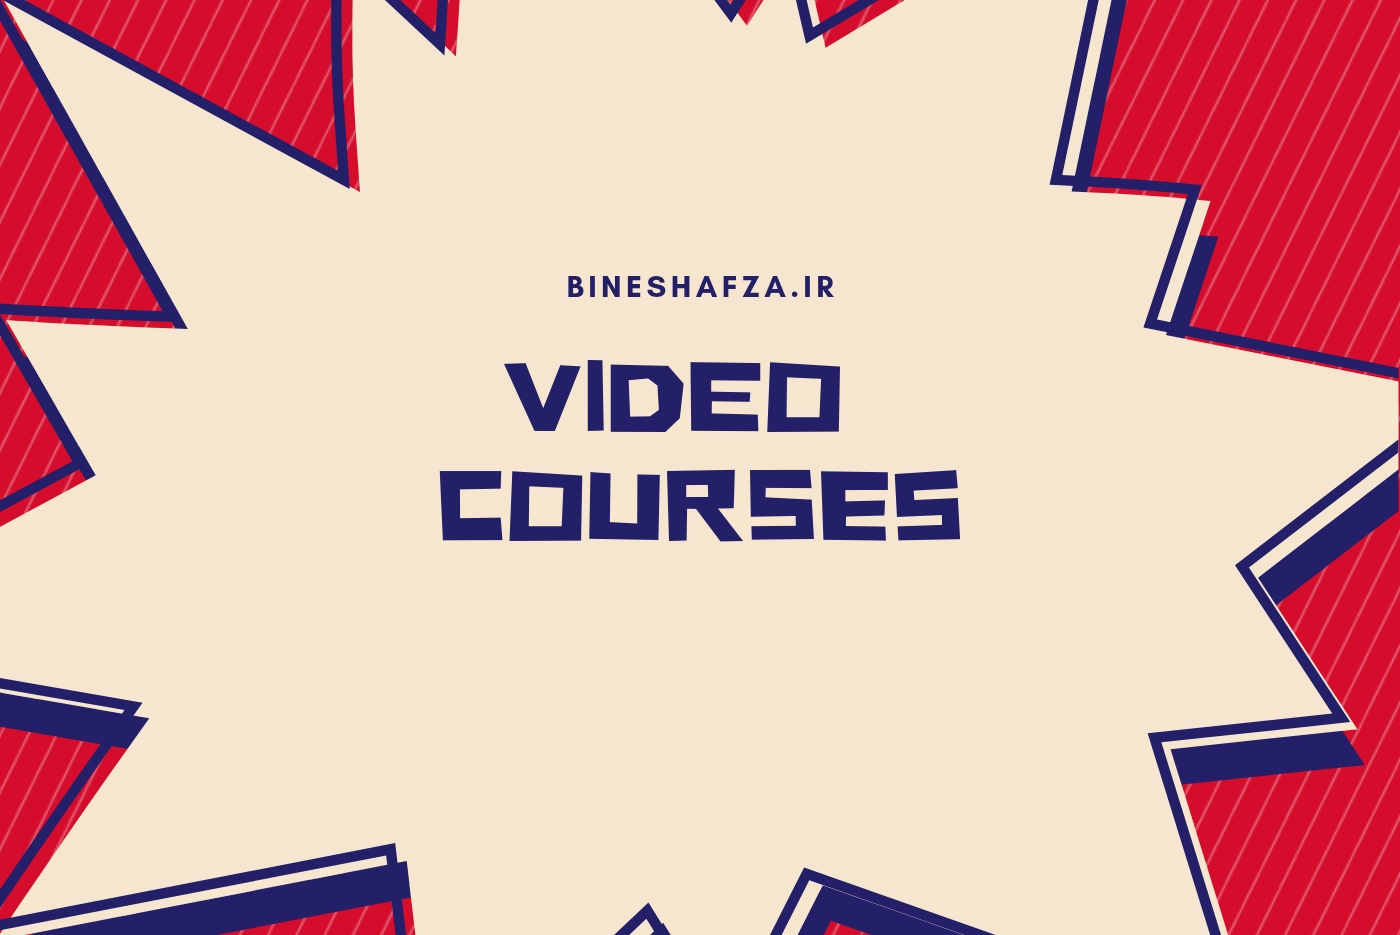
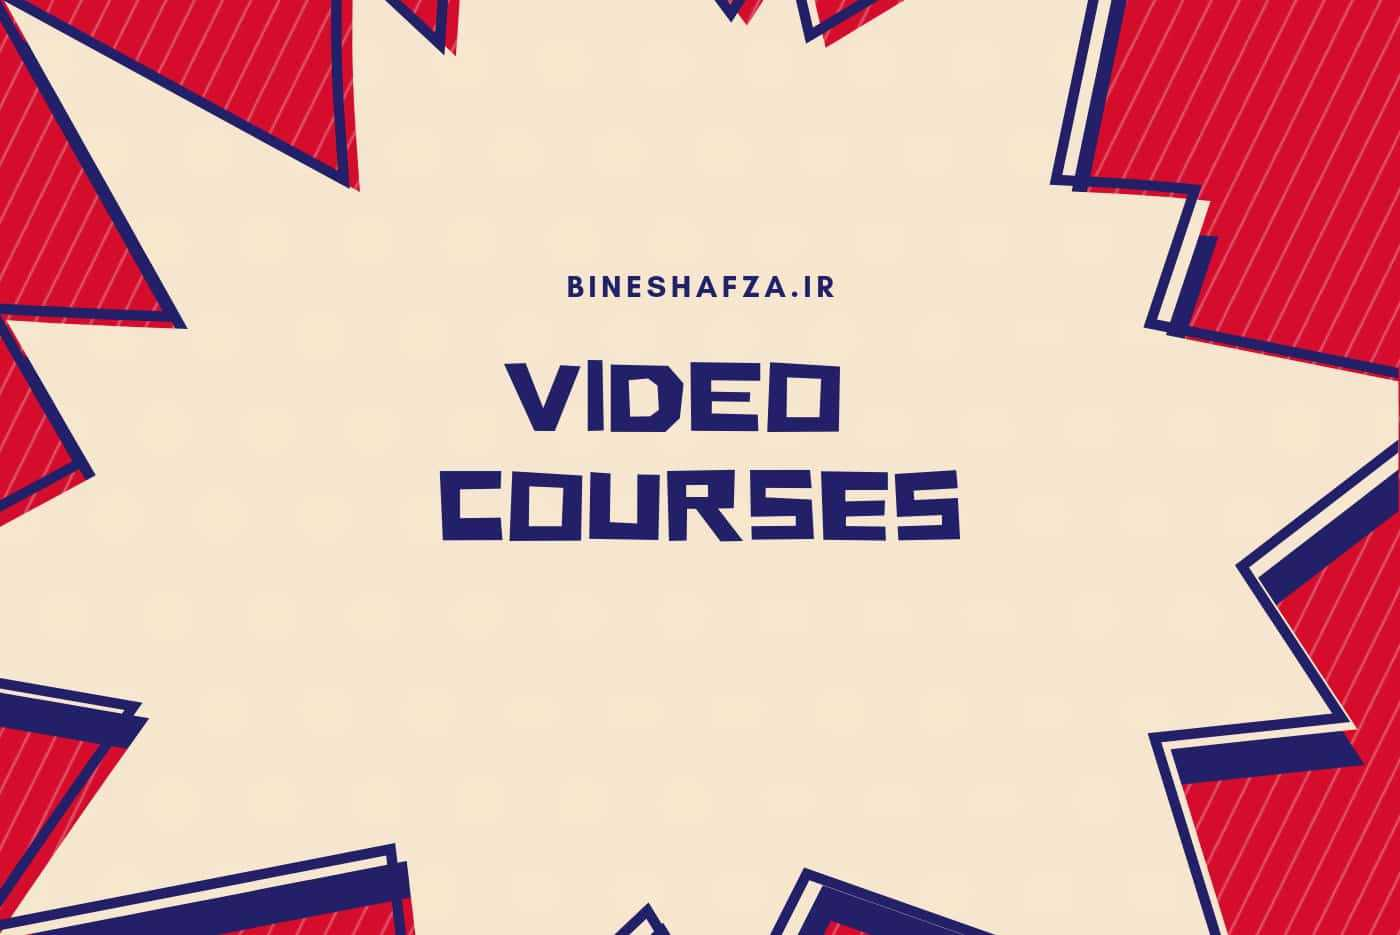
image-optim

diff --git a/_plugins/image_optim.rb b/_plugins/image_optim.rb
@@ -1,0 +1,101 @@
+require "image_optim"
+require 'yaml'
+
+module Jekyll
+
+  class ImageOptimGenerator < Generator
+    safe true
+
+    ###########################################################################
+    # Entry point for the plugin.
+    def generate(site)
+      # Read configuration. Defaults first, then overrides from _config.yml.
+      config = YAML::load_file "_config.yml"
+      config = config["image_optim"] || {}
+      @config = default_options.merge! config
+
+      # Initialize the ImageOptim library, which does the heavy lifting.
+      @image_optim = ImageOptim.new(
+        {
+          :allow_lossy => true,  #Allow worker, it is always lossy (defaults to false)
+          :svgo => false,
+          :pngout => false,
+          :verbose => false,
+          :pngquant => {:quality => 70..85},  #min..max - don't save below min, use less colors below max (both in range 0..100; in yaml - !ruby/range 0..100), ignored in default/lossless mode (defaults to 100..100, 0..100 in lossy mode)
+          :jpegrecompress => {:quality => 0},   #JPEG quality preset: 0 - low, 1 - medium, 2 - high, 3 - veryhigh (defaults to 3)
+          :jpegoptim => {:max_quality => 50}
+        })
+
+      # Read the cache file, if it exists.
+      @last_update = YAML::load_file @config["cache_file"] if File.file? @config["cache_file"]
+      @last_update ||= {}
+
+      # Create the originals directory.
+      FileUtils.mkdir_p @config["archive_dir"]
+
+      # Iterate over all images, optimizing as necessary.
+      Dir.glob(@config["image_glob"]) { |image| analyze image }
+
+      # Save modifications back to the cache file.
+      File.open(@config["cache_file"], "w") { |file| file.write @last_update.to_yaml }
+    end
+
+    ###########################################################################
+    # Native settings for the plugin.
+    # Override with corresonding entries to _config.yml under "image_optim"
+    #
+    # Example:
+    #
+    #   [_config.yml]
+    #   image_optim:
+    #     archive_dir: "_my_original_images"
+    #     cache_file: "_custom_file.yml"
+    #     image_glob: "webroot/images/*.png"
+    def default_options
+      {
+        # Where do we store archival copies of the originals?
+        "archive_dir" => "_image_optim_archive",
+        # Where do we store our cache file?
+        "cache_file" => "_image_optim_cache.yml",
+        # What images do we search for?
+        "image_glob" => "images/**/*.{gif,jpg,jpeg,png}",
+      }
+    end
+
+    ###########################################################################
+    # Determine whether or not optimization needs to occur.
+    def analyze(image)
+      if @last_update.has_key? image
+        # If we've touched the image before, but it's been modified, optimize.
+        optimize image if @last_update[image] != File.mtime(image)
+      else
+        # If the image is new, optimize.
+        optimize image
+      end
+    end
+
+    ###########################################################################
+    # In-place image optimization per the ImageOptim library.
+    def optimize(image)
+      puts "Optimizing #{image}"
+      FileUtils.copy image, archival_filename(image)
+      @image_optim.optimize_image! image
+      @last_update[image] = File.mtime image
+    end
+
+    ###########################################################################
+    # Adds the date/time of archival as well as the MD5 digest of the original
+    # source file.
+    def archival_filename(image)
+      ext = File.extname(image)
+      "%s/%s-%s-%s%s" % [
+        @config["archive_dir"],
+        File.basename(image, ext),
+        DateTime.now.strftime("%Y-%m-%d-%H-%M-%S"),
+        Digest::MD5.file(image).hexdigest,
+        ext,
+      ]
+    end
+
+  end
+end
